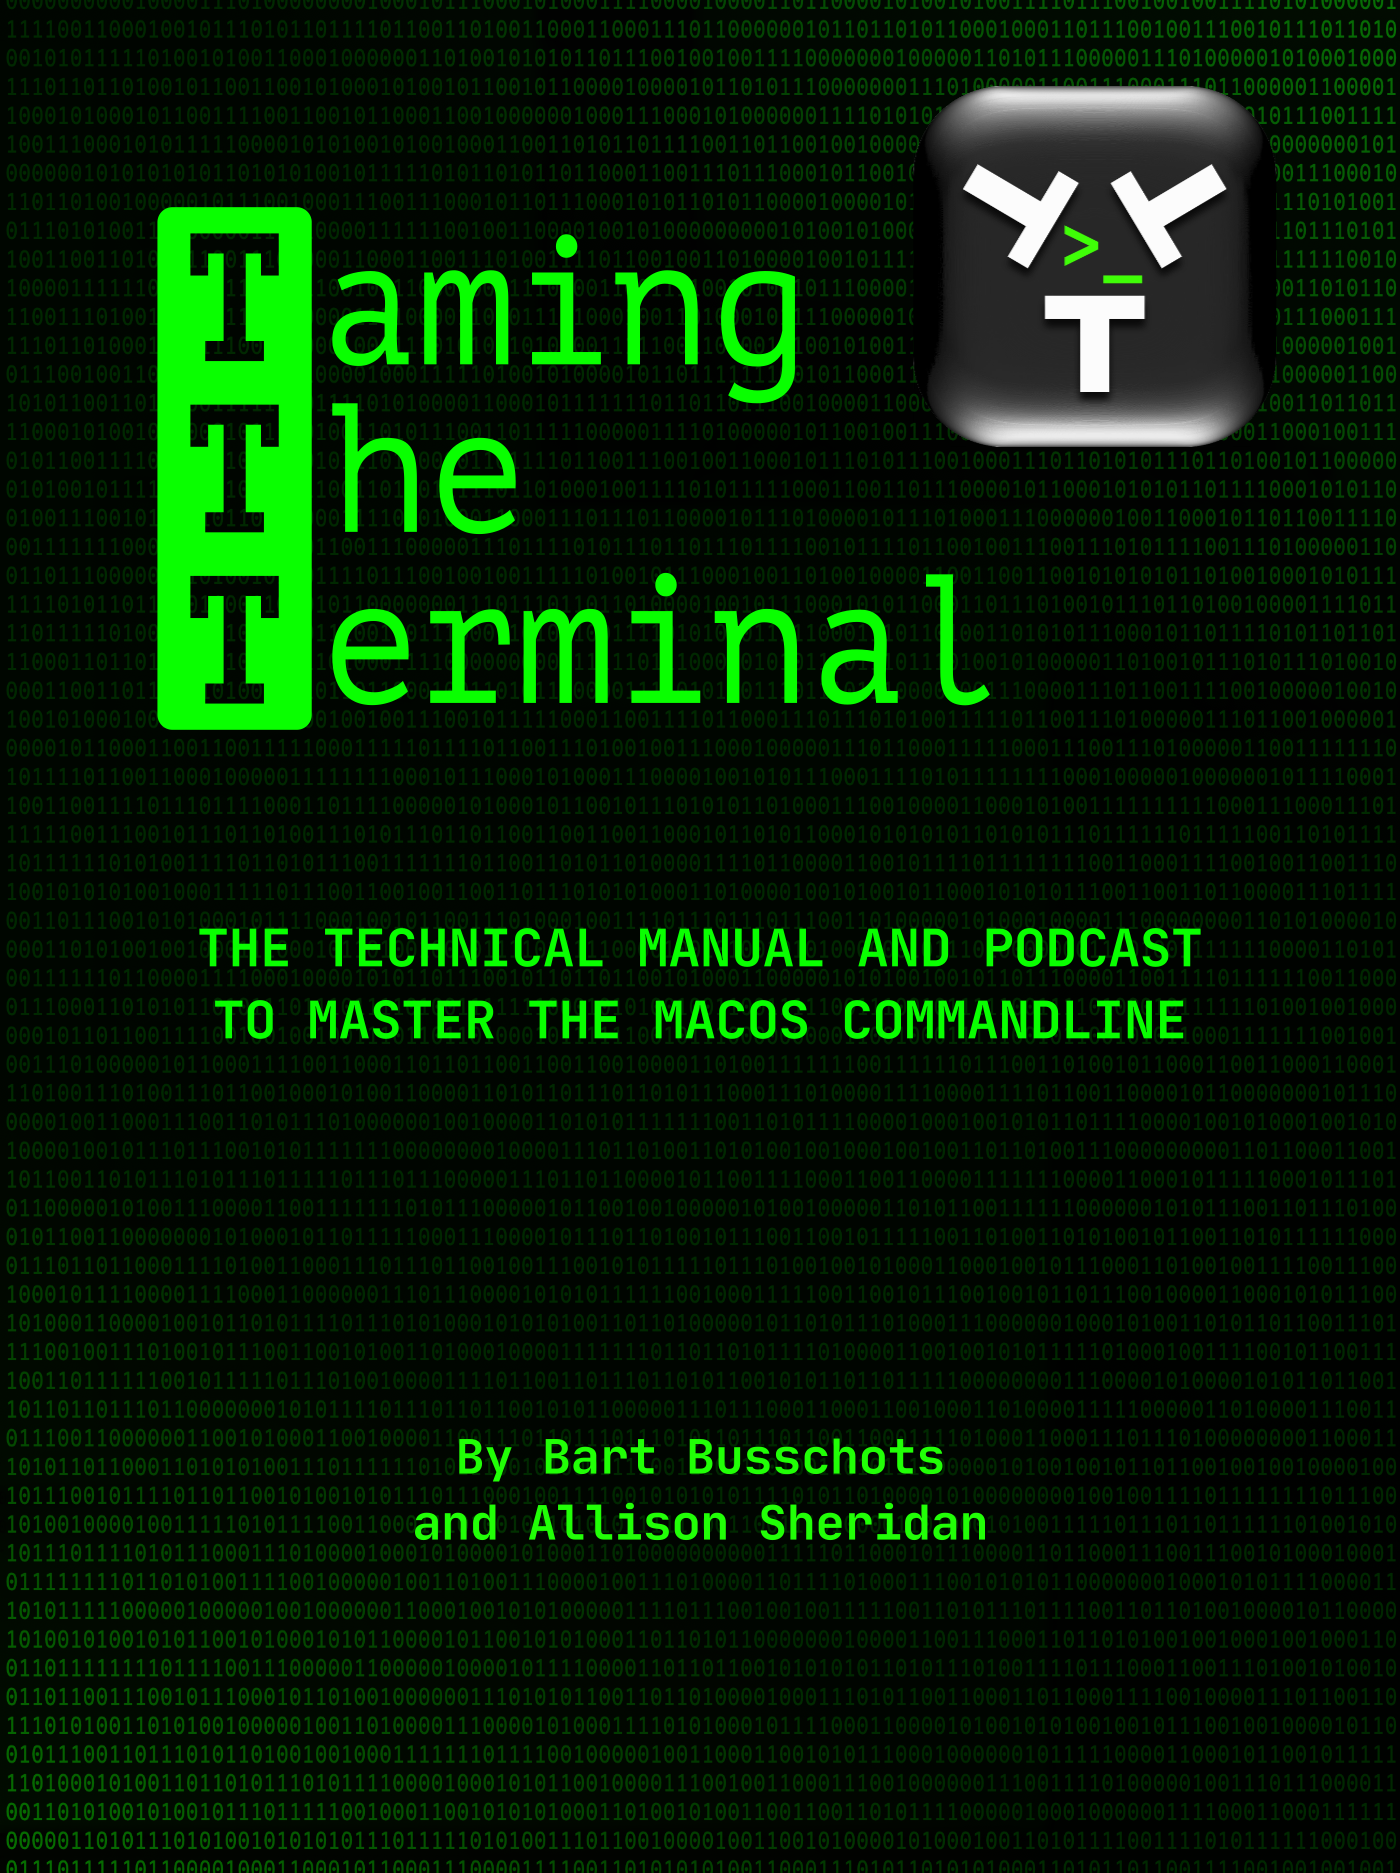
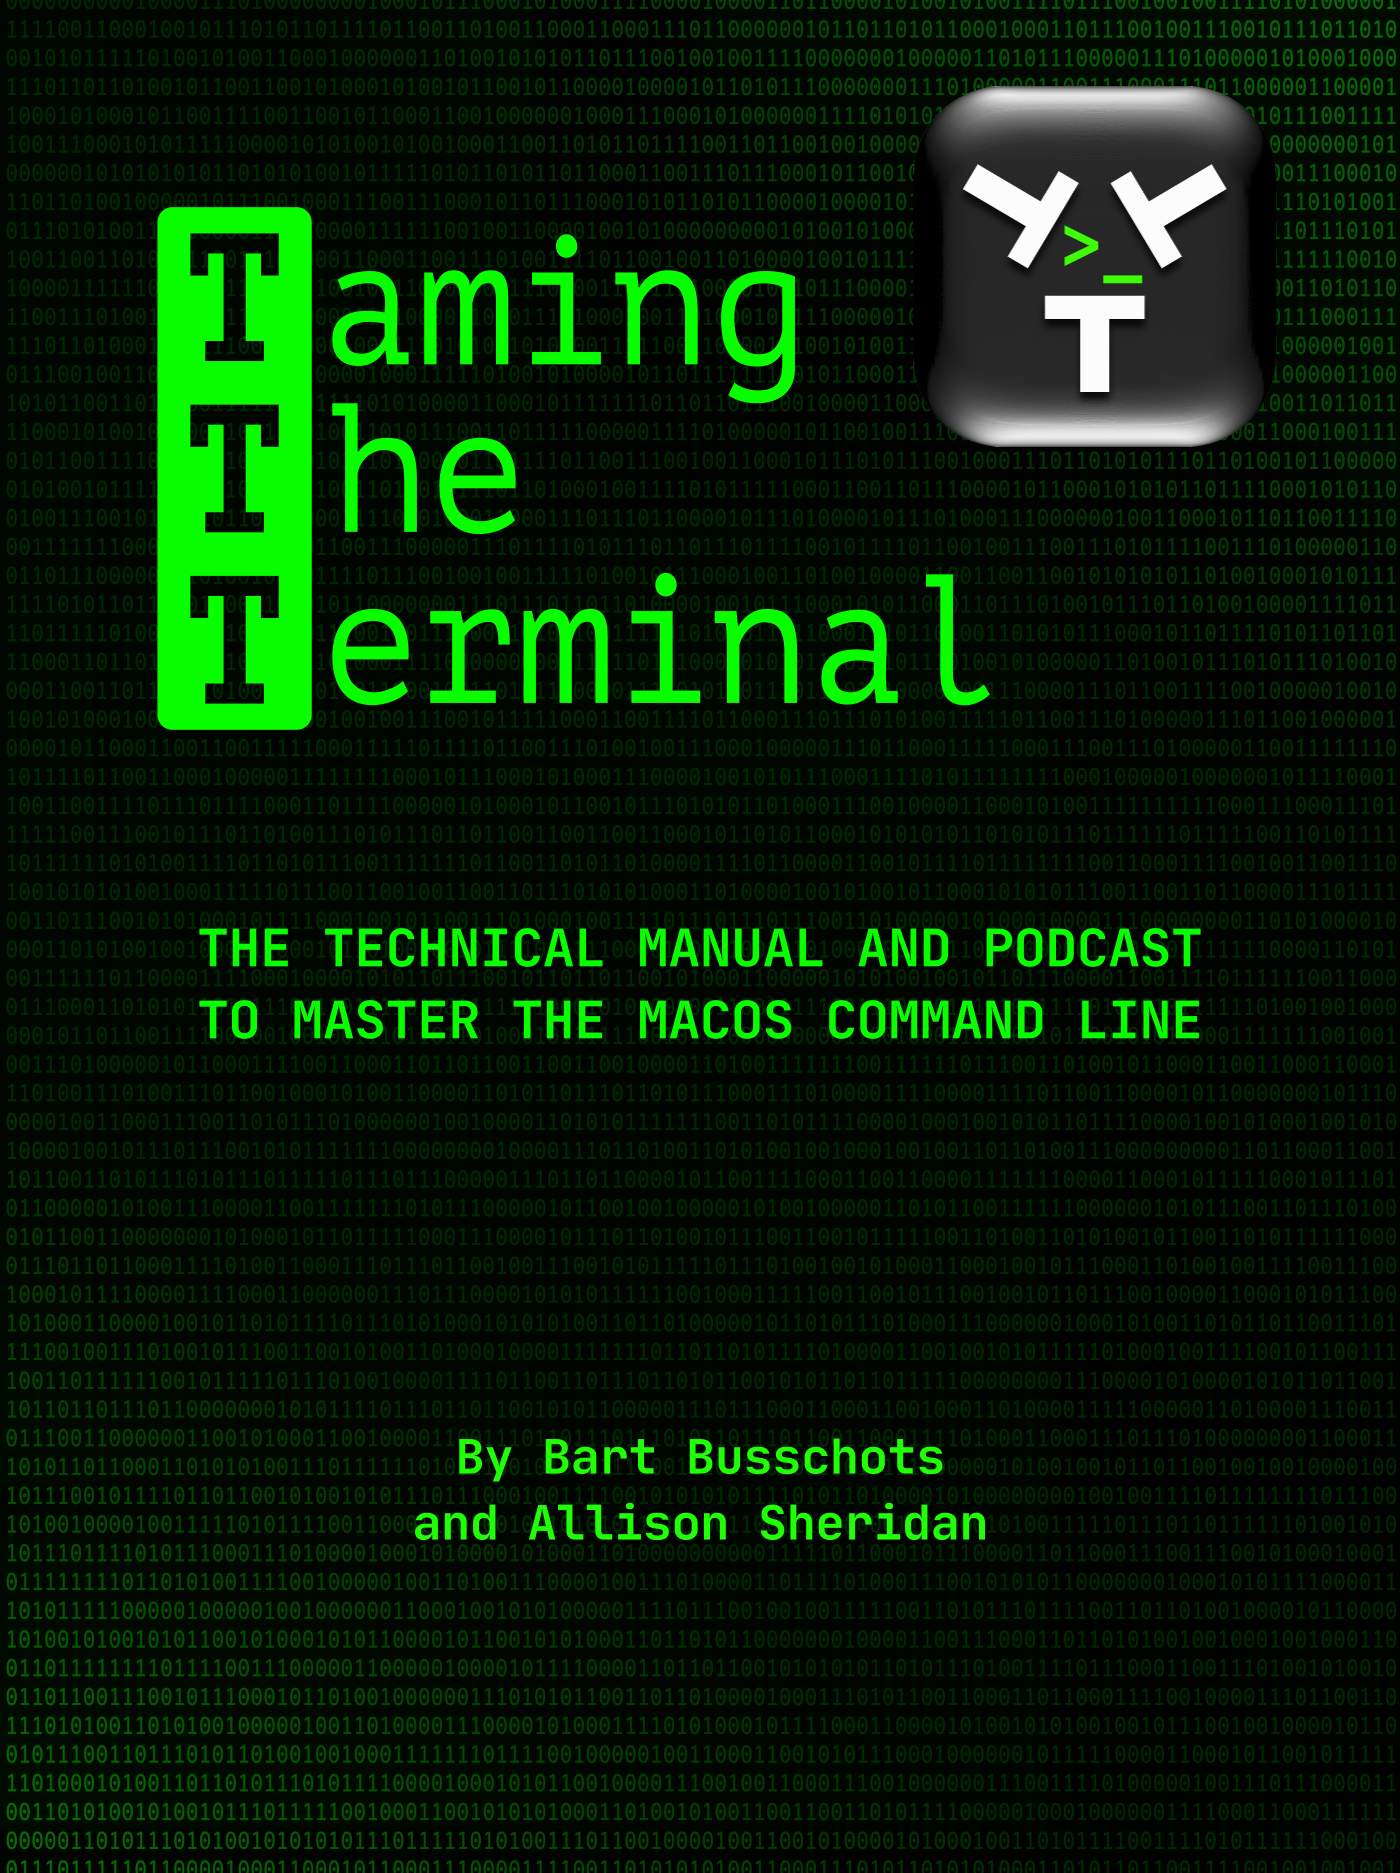
Cover with typo fixed, subtitle added to the spine, and explanation of the various formats in the README

Changed region(s): [[0.1229, 0.5264, 0.86, 0.5574]]

diff --git a/README.md b/README.md
@@ -7,3 +7,14 @@ This repository contains all the content of the Taming the Terminal tutorial as 
 Under Releases you will find all the ebook versions of this tutorial.
 
 Instructions on how to build the ebooks are in the INSTALLATION.md file.
+
+In the releases you can find various formats:
+
+- ttt.epub: ePub without audioplayer
+- ttt-audio.epub: ePub with inline audioplayer
+- ttt.modi: Kindle version
+- ttt.pdf: PDF with pages in A4 size
+- ttt-us.pdf: PDF with pages in Letter size
+- ttt.html: single page HTML version
+
+Note, for the HTML version you need to download the ttt_all.zip. This zip not only contains the 4 output formats, but also the images for the HTML version.
